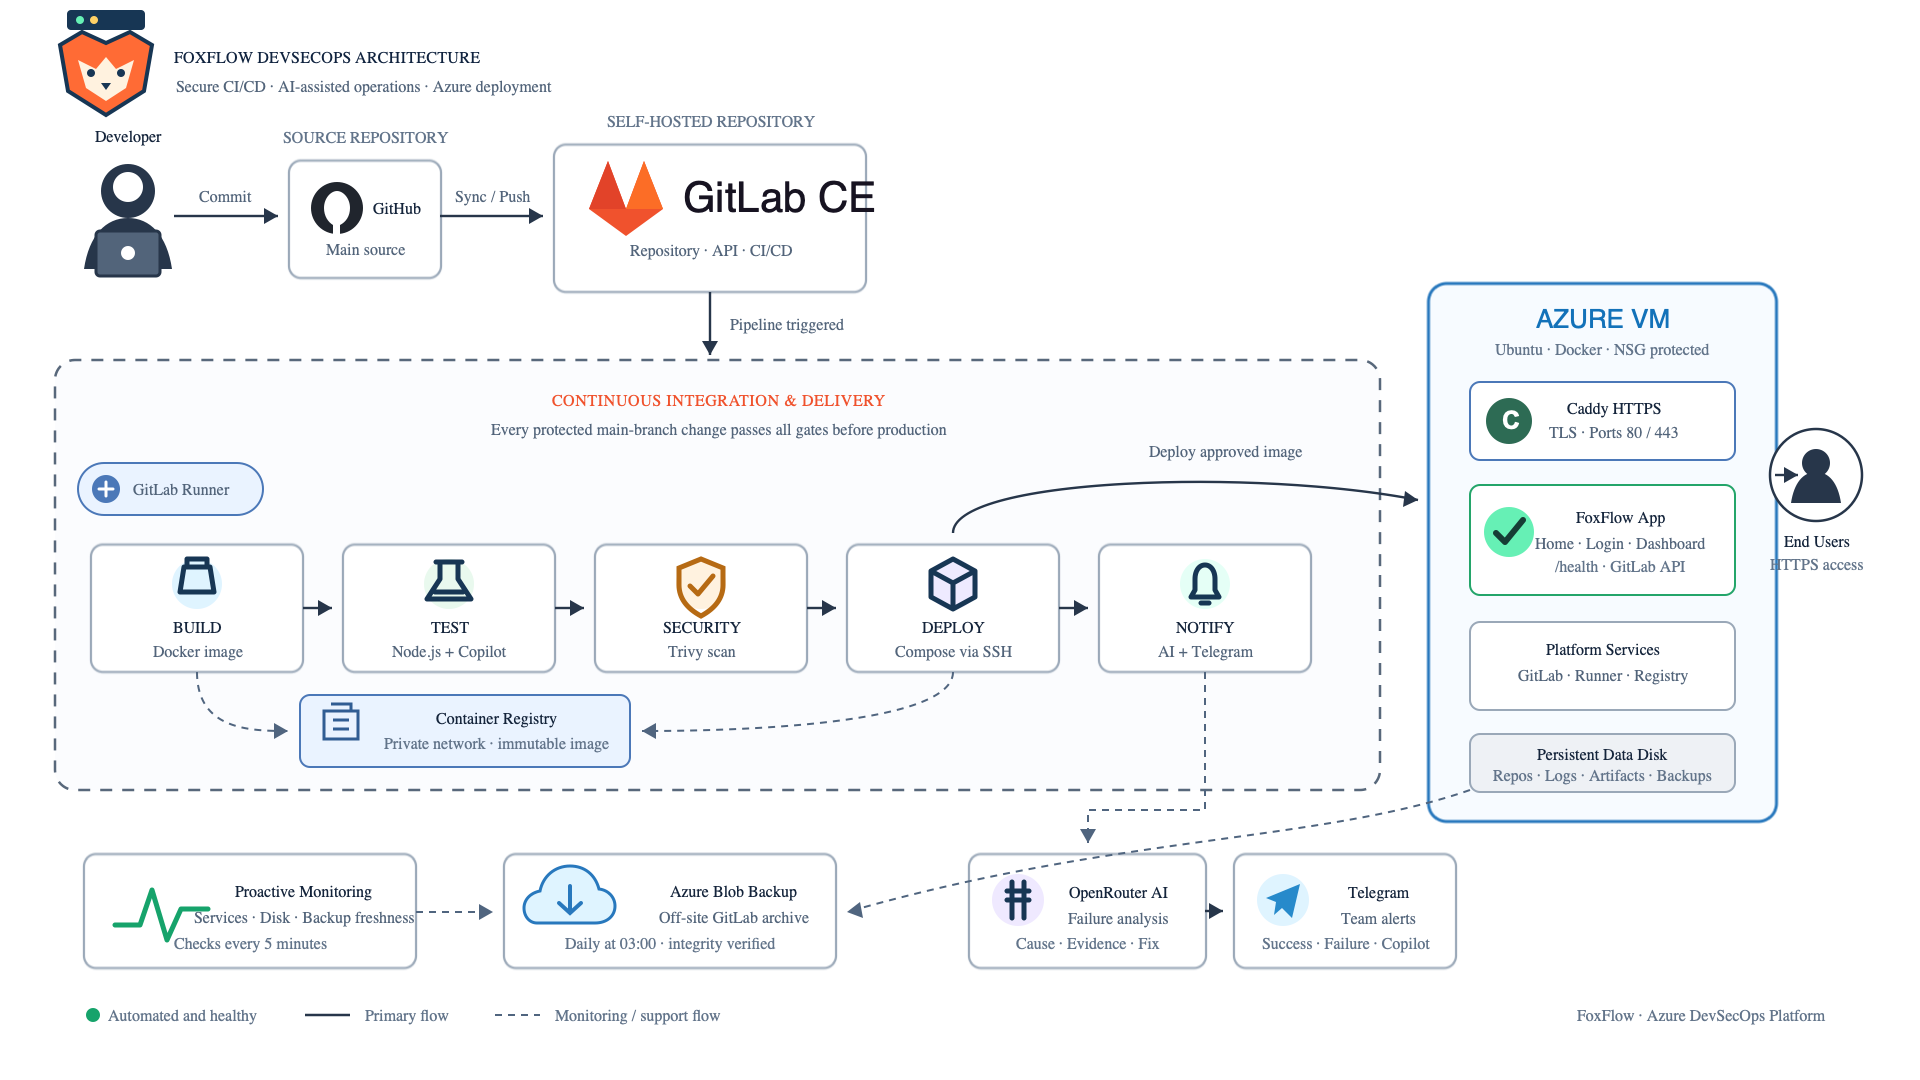
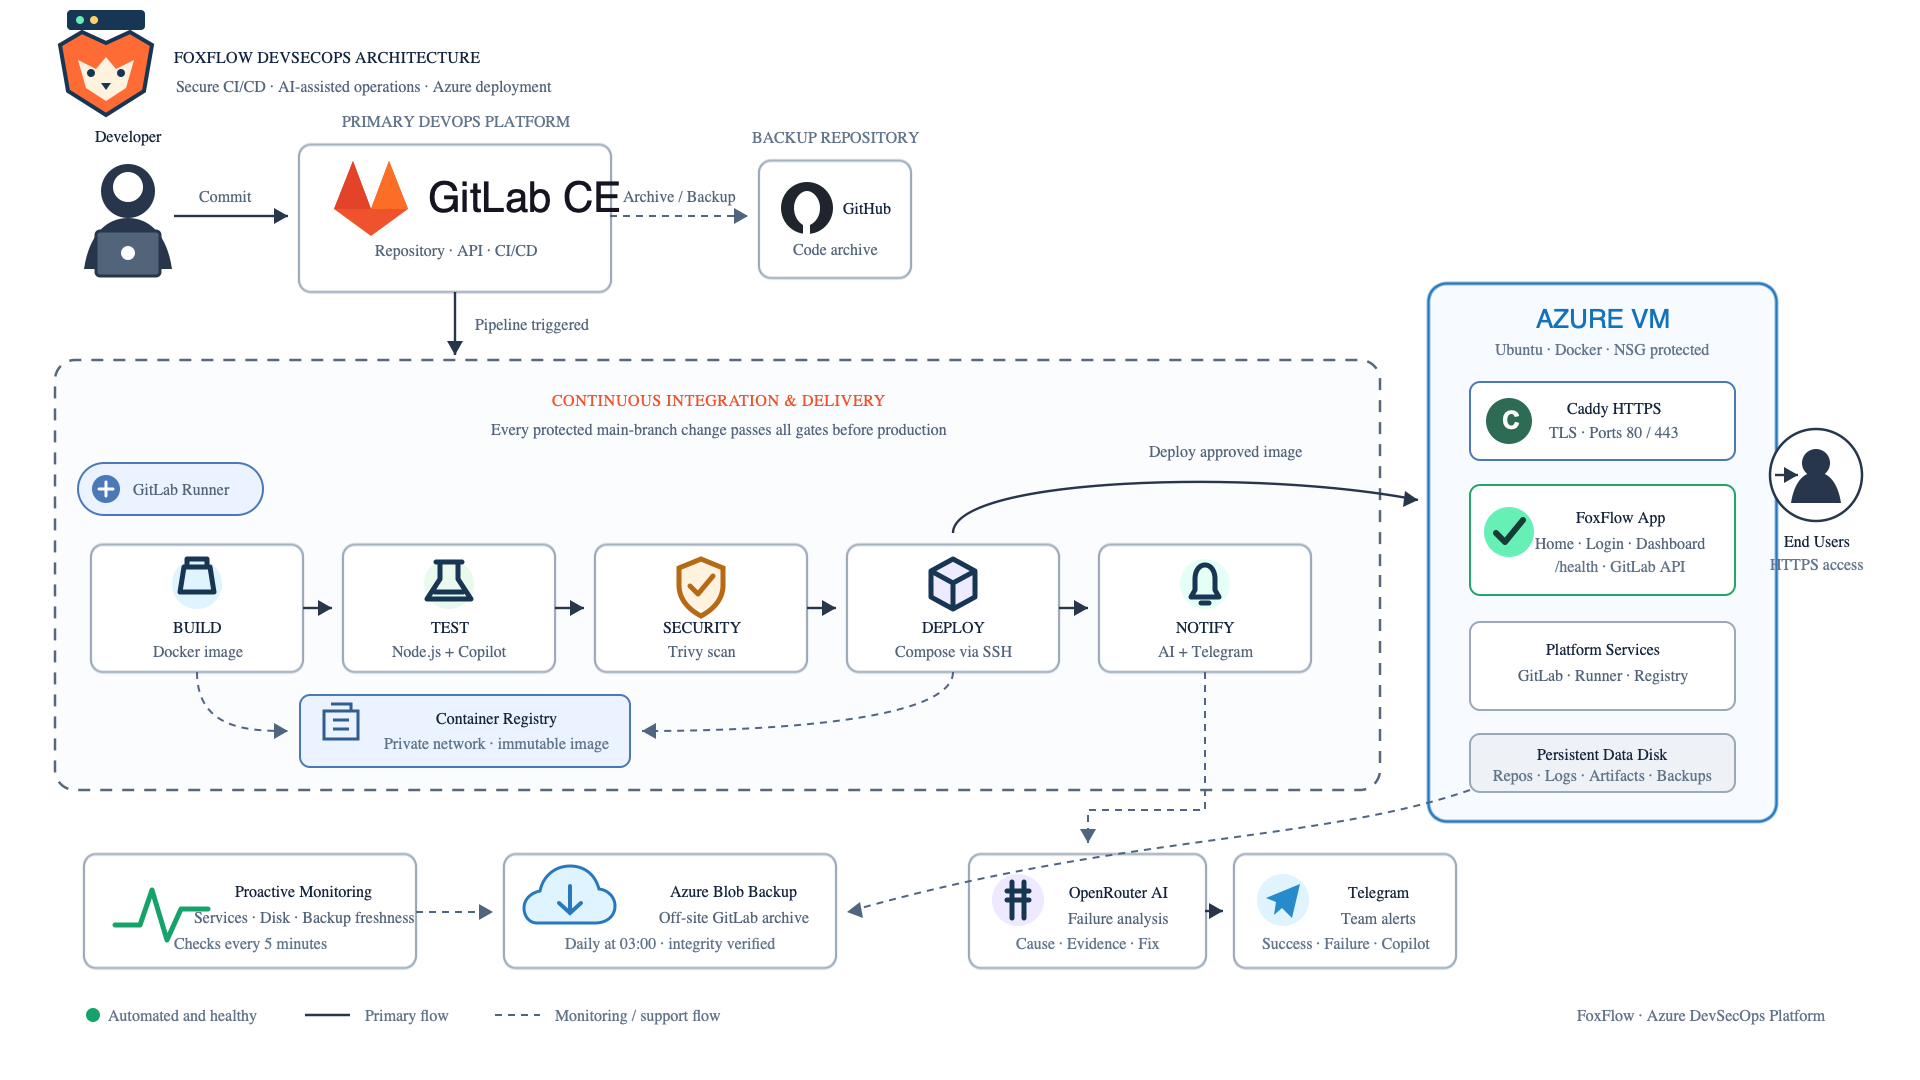
Document GitLab as primary workflow

Changed region(s): [[0.125, 0.0917, 0.4688, 0.3056]]

diff --git a/README.md b/README.md
@@ -51,10 +51,11 @@ The verified health response is:
 ![FoxFlow DevSecOps architecture](docs/foxflow-architecture.svg)
 
 ```text
-Developer -> GitHub / GitLab
-                    |
-                    v
-              GitLab Runner
+Developer -> GitLab (primary workspace)
+                 |              \
+                 |               -> GitHub archive
+                 v
+           GitLab Runner
                     |
         build -> test -> Trivy scan
                     |
